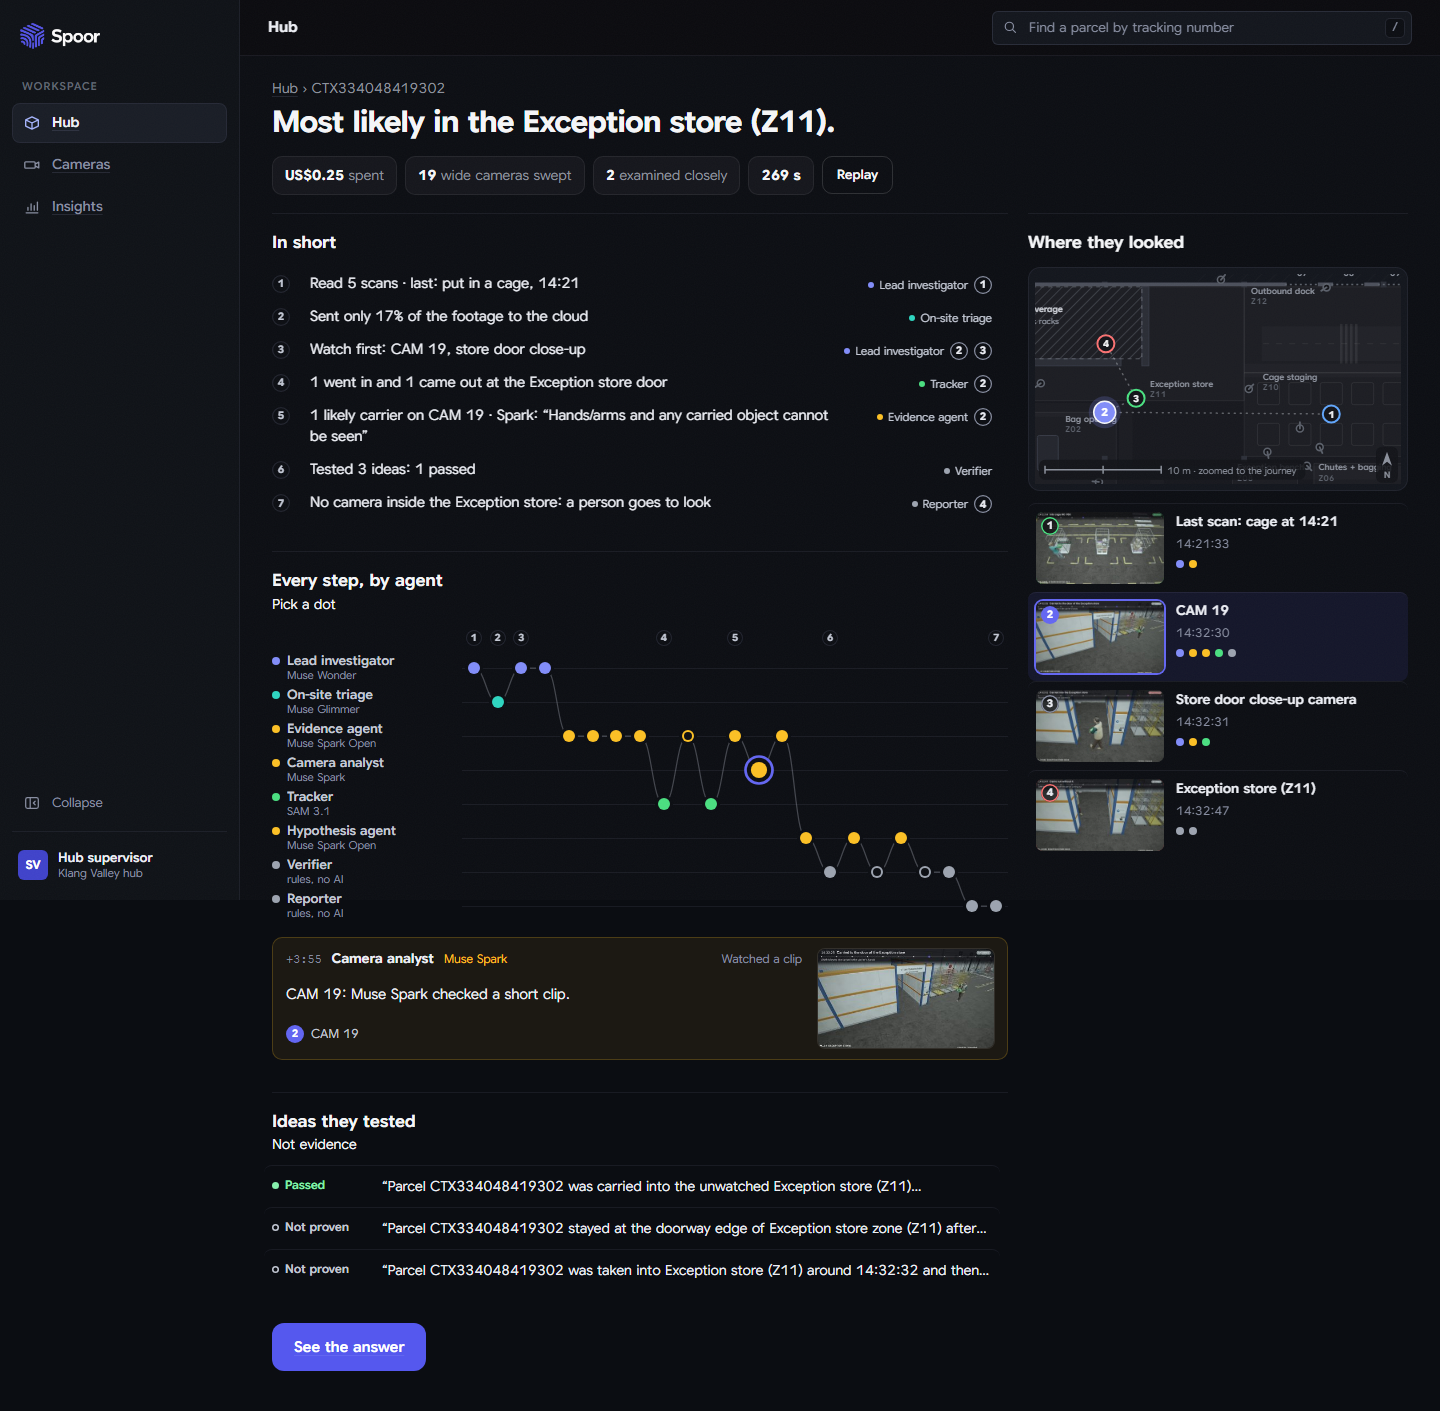
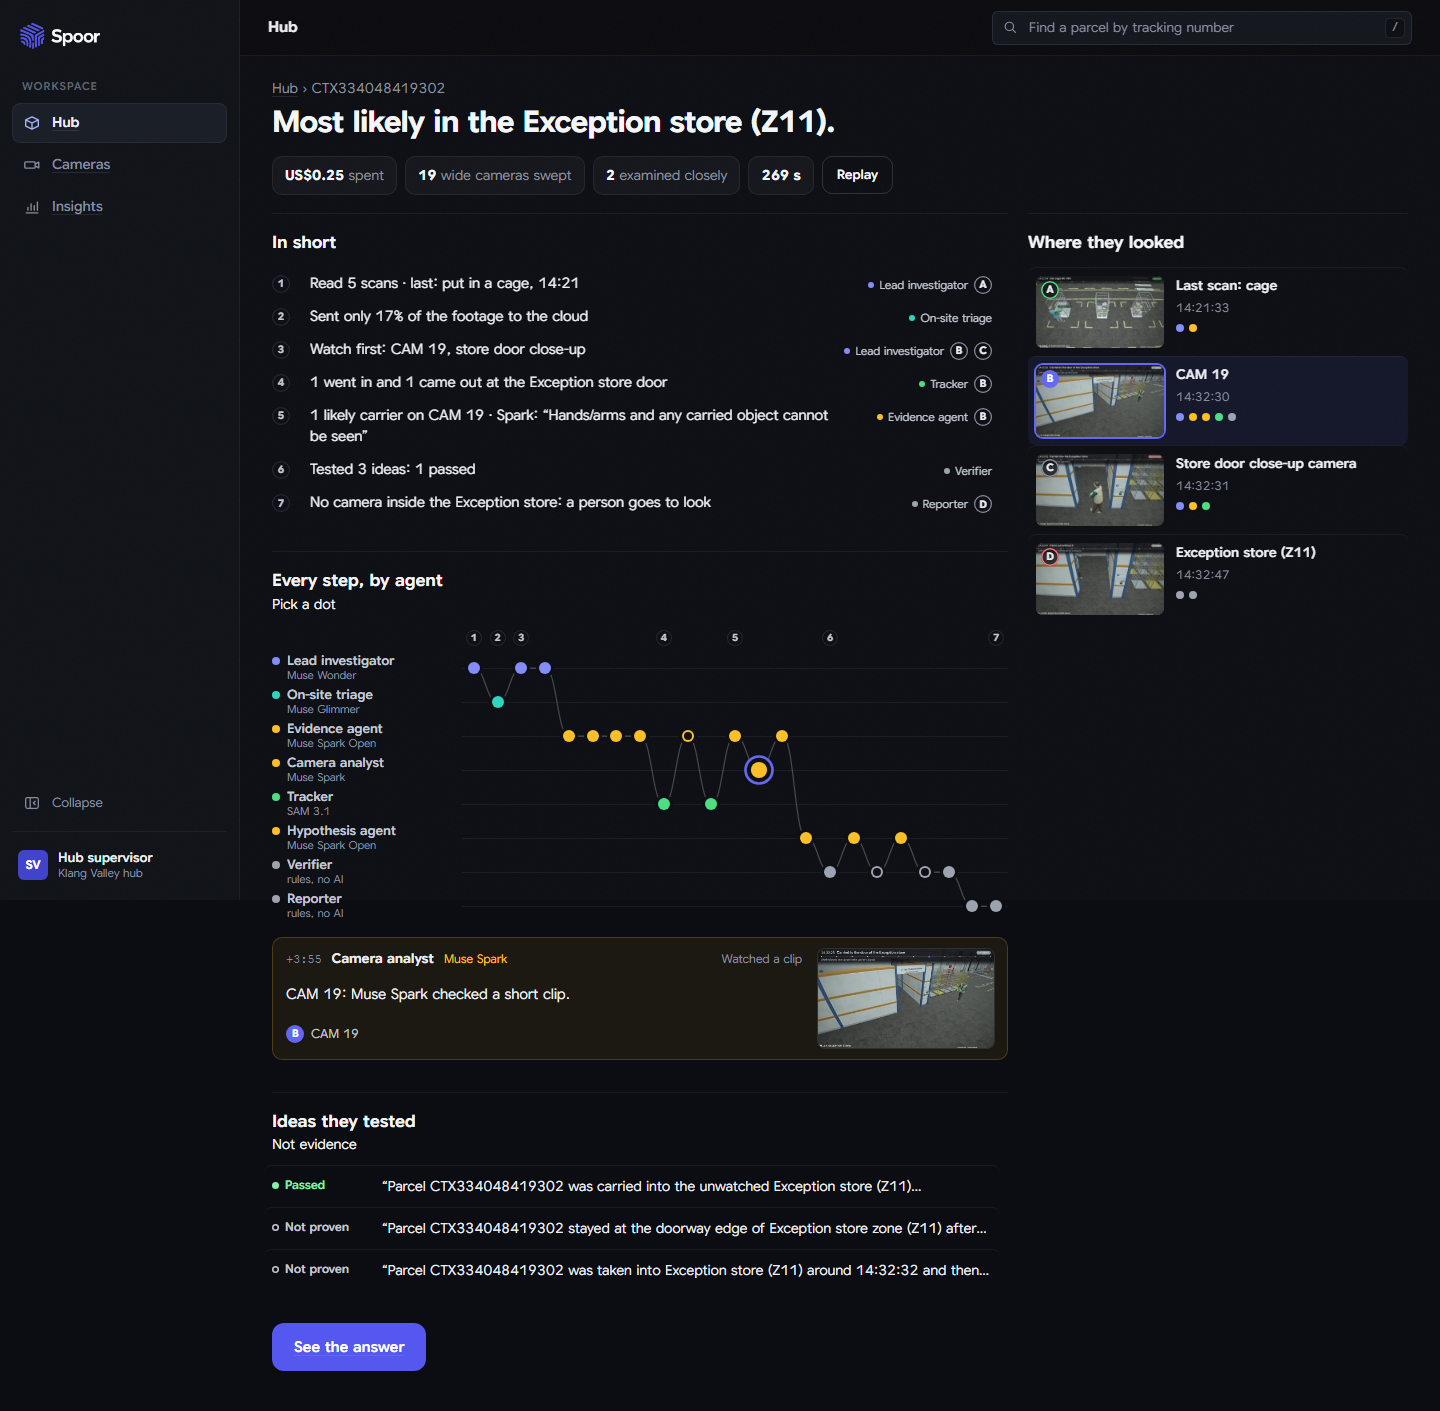
Investigate: no plan (its 1-4 clashed with the checkpoints); places lettered A-D as their real camera frames

Changed region(s): [[0.7188, 0.1871, 0.9688, 0.6237]]

diff --git a/frontend/src/app/cases/[caseId]/investigate/page.tsx b/frontend/src/app/cases/[caseId]/investigate/page.tsx
@@ -4,7 +4,7 @@
  * log line and meter value comes from the run's typed steps (POST /v1/cases/{id}/run, streamed; GET replays the last
  * run). Model steps that are not configured say so in the log; nothing here is scripted.
  * Rexton, 3 Nov: show which agent did what and where. "Who did what" is one lane per agent with a dot per step in the
- * order they ran (a thin line passes the baton between them), under a numbered summary whose numbers sit above the dots; "Where they looked" numbers every place the steps
+ * order they ran (a thin line passes the baton between them), under a numbered summary whose numbers sit above the dots; "Where they looked" letters every place the steps
  * touched on the plan. Picking a step lights its places; picking a place picks its first step.
  */
 import Link from "next/link";
@@ -12,7 +12,6 @@ import { use, useCallback, useEffect, useRef, useState } from "react";
 import { API_BASE, api, invalidate, signedUrl, useResource } from "@/lib/api";
 import { HUB, camId } from "@/lib/hub";
 import type { Journey, XY } from "@/lib/journey";
-import HubPlan, { type Stop } from "@/components/plan/HubPlan";
 import type { Chapter, Reel } from "@/components/case/JourneyReel";
 import "./investigate.css";
 
@@ -203,7 +202,7 @@ export default function InvestigatePage({ params }: { params: Promise<{ caseId: 
     }
   };
   steps.forEach((s) => placesOf(s).forEach(addPlace));
-  const nOf = (key: string) => places.findIndex((p) => p.key === key) + 1;
+  const nOf = (key: string) => String.fromCharCode(65 + places.findIndex((p) => p.key === key));
   const chapters = reel.data?.chapters ?? [];
   const frameOf = (key: string): Chapter | undefined => key === "last" ? chapters.find((c) => c.last_scan)
     : key === "zone" ? chapters.find((c) => c.tone === "seen" && c.camera === "CHK_STORE") ?? chapters.find((c) => c.tone === "noscan")
@@ -214,7 +213,6 @@ export default function InvestigatePage({ params }: { params: Promise<{ caseId: 
   // the step being looked at: the one picked, else the one hovered, else the one running now
   const focus = steps.find((s) => s.seq === (peek ?? picked)) ?? (!done ? cur : undefined) ?? null;
   const focusPlaces = focus ? placesOf(focus) : [];
-  const stops: Stop[] = places.map((p, i) => ({ key: p.key, xy: p.xy, n: i + 1, tone: p.tone, label: p.label, on: focusPlaces.includes(p.key) }));
   const pickPlace = (key: string) => { const s = steps.find((x) => placesOf(x).includes(key)); if (s) setPicked(s.seq); };
 
   const ideas = steps.flatMap((s, i) => {
@@ -377,13 +375,8 @@ export default function InvestigatePage({ params }: { params: Promise<{ caseId: 
         <aside className="iv-right">
           <div className="iv-card iv-where">
             <div className="iv-card-head"><h2>Where they looked</h2></div>
-            <div className="iv-plan">
-              {places.length > 0
-                ? <HubPlan label="Floor plan: every place the crew worked, numbered" fit="width" legend={false} quiet fitStops stops={stops} onStop={pickPlace} />
-                : <div className="iv-plan-wait">The places appear here as the crew reaches them</div>}
-            </div>
             <ol className="iv-places">
-              {places.map((p, i) => {
+              {places.map((p) => {
                 const who = crew.filter((c) => steps.some((s) => s.role === c.role && placesOf(s).includes(p.key)));
                 const fr = frameOf(p.key);
                 return (
@@ -393,7 +386,7 @@ export default function InvestigatePage({ params }: { params: Promise<{ caseId: 
                       <span className="iv-place-pic">
                         {/* eslint-disable-next-line @next/next/no-img-element -- a signed frame of the journey video, from the API */}
                         {fr?.thumb_url ? <img src={signedUrl(fr.thumb_url)} alt="" /> : <span className="iv-place-none" />}
-                        <span className="iv-place-n">{i + 1}</span>
+                        <span className="iv-place-n">{nOf(p.key)}</span>
                       </span>
                       <span className="iv-place-body">
                         <span className="iv-place-name">{p.label}</span>
@@ -414,7 +407,7 @@ export default function InvestigatePage({ params }: { params: Promise<{ caseId: 
   );
 }
 
-interface Place { key: string; xy: XY; label: string; tone: Stop["tone"] }
+interface Place { key: string; xy: XY; label: string; tone: "scan" | "seen" | "bad" }
 
 /** the model behind an agent, as one of five colours (its name is always written beside it) */
 function fam(model: string): string {
